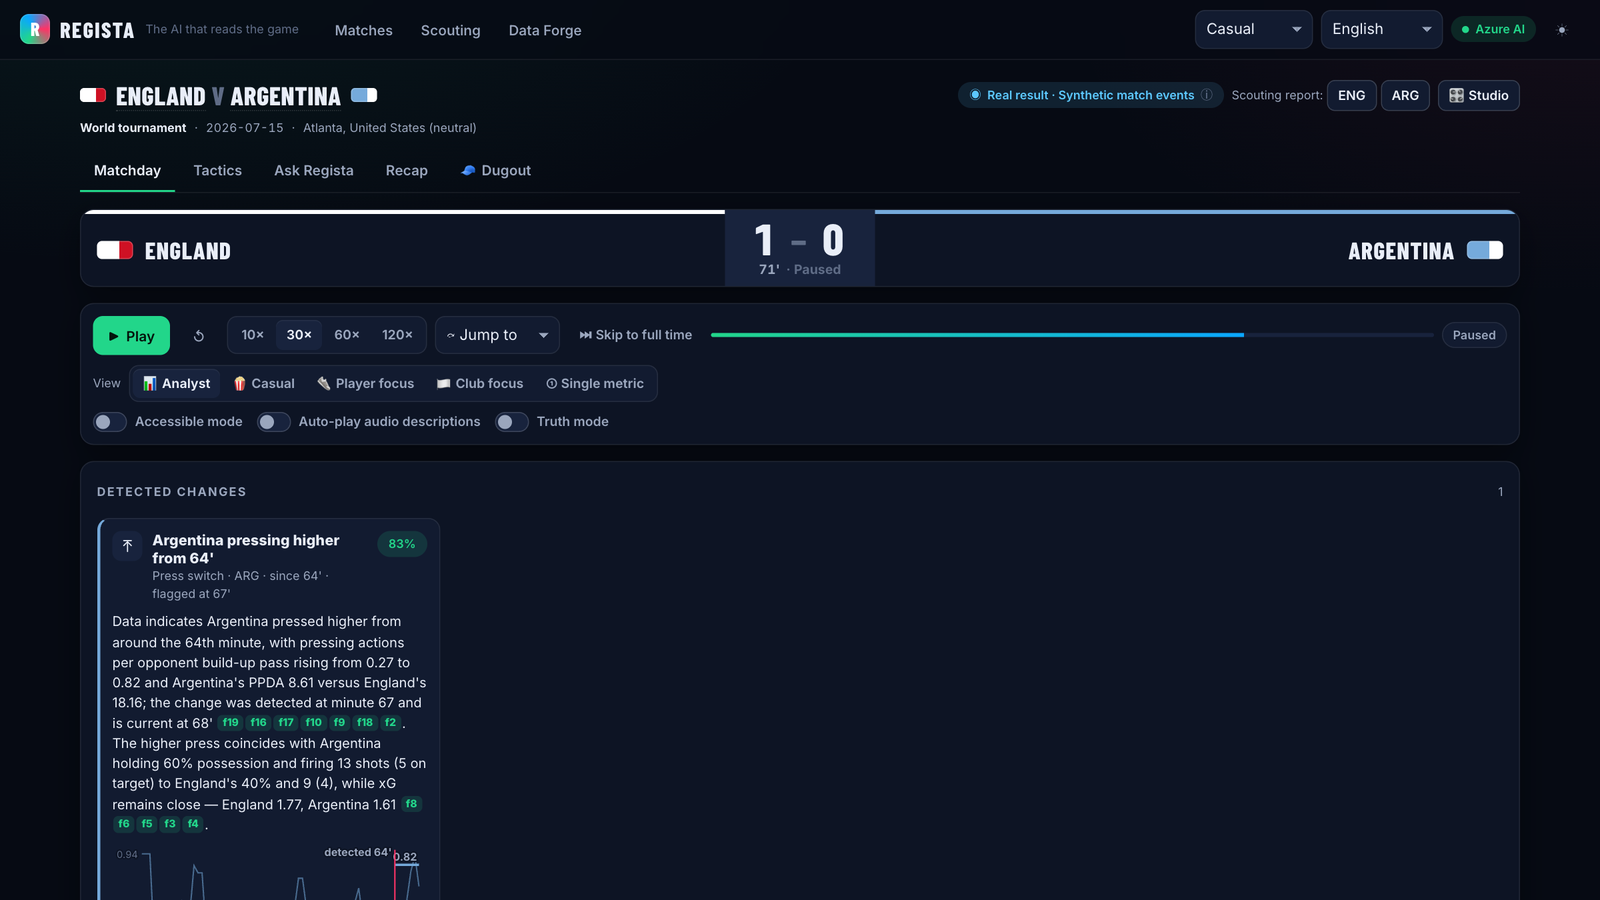
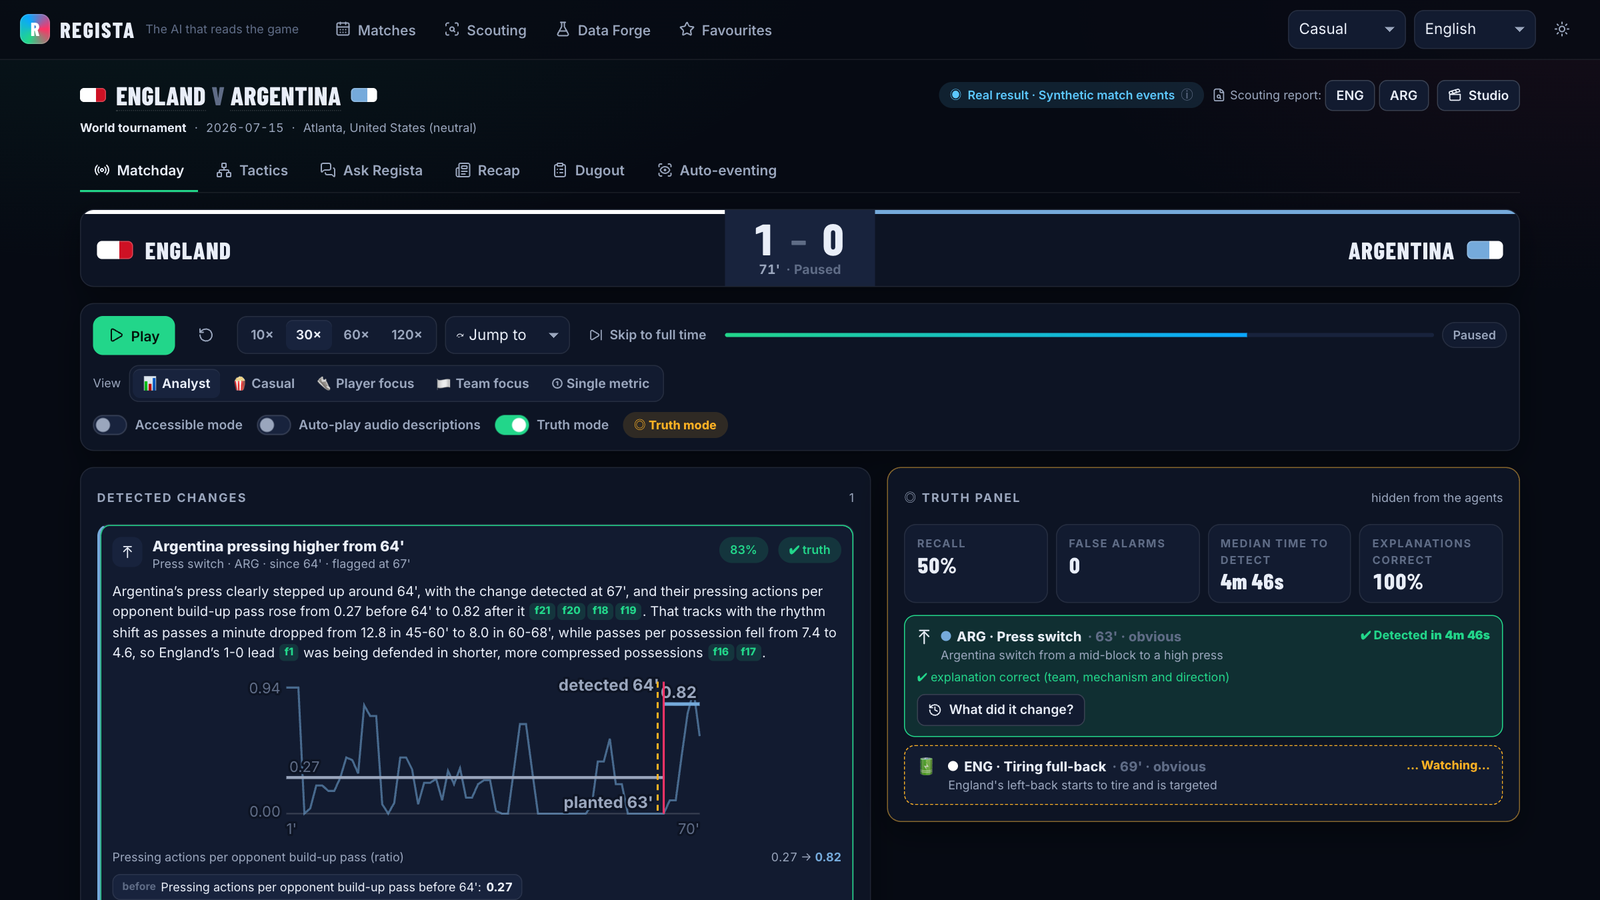
Architecture diagrams show the real flow (browser → API, Web PubSub → viewers); fresh screenshots from the live site

diff --git a/README.md b/README.md
@@ -6,7 +6,7 @@ Built for the Microsoft + Premier League *Inside the Game* Developer Hackathon w
 
 **Try it live:** https://lively-mushroom-048c7b70f.2.azurestaticapps.net (no login; [judge mode](#judge-mode) below). One API instance stays warm, so there's no cold start.
 
-![Control room at 68': Argentina's planted press switch detected, the Verifier drill catching an overstated number (1.76 struck through, evidence says 0.82), and the truth panel scoring the detection in 286 seconds](docs/screenshots/studio-hero.png)
+![Control room at 77': a tiring full-back explained with cited evidence, the Verifier drill catching a planted wrong number before air, and the truth panel scoring both planted changes (recall 100%, 0 false alarms, the press switch detected in 4 min 46 s)](docs/screenshots/studio-hero.png)
 
 > A *regista* is the deep-lying playmaker who sees the whole pitch and dictates the tempo. Regista does that for every viewer, producer and manager: what happened, **why it mattered**, with the evidence.
 
@@ -53,8 +53,8 @@ Built for the Microsoft + Premier League *Inside the Game* Developer Hackathon w
 <tr><td><img src="docs/screenshots/studio-azure.png" alt="Studio on Azure AI: detected changes with evidence charts beside the truth panel (recall 100%, 0 false alarms, median 248 s)"></td>
 <td><img src="docs/screenshots/overlay.png" alt="Broadcast overlay: an approved lower third, Argentina pressing higher from 64', on the transparent page"></td></tr>
 <tr><td align="center">Studio on Azure AI: detections graded by the truth panel</td><td align="center">Overlay: the approved lower third on air</td></tr>
-<tr><td><img src="docs/screenshots/ask.png" alt="Ask Regista: an answer to why England lost, every number tagged with a fact ID, fact-checked against 50 facts"></td>
-<td><img src="docs/screenshots/recap.png" alt="Automated recap: headline, report, player of the match and a 60-second audio script, fact-checked against 139 facts"></td></tr>
+<tr><td><img src="docs/screenshots/ask.png" alt="Ask Regista: an answer to why England lost, every number tagged with a fact ID and fact-checked, with the agent trace"></td>
+<td><img src="docs/screenshots/recap.png" alt="Automated recap: headline, report, player of the match and a 60-second audio script, fact-checked"></td></tr>
 <tr><td align="center">Ask Regista: MCP tools, every number cited</td><td align="center">Multi-agent recap, fact-checked</td></tr>
 <tr><td><img src="docs/screenshots/matchday-player.png" alt="Matchday, Player focus: one player's touches, passes, distance, sprints and top speed"></td>
 <td><img src="docs/screenshots/tactics.png" alt="Tactics: shape, xG, PPDA, field tilt and the pass network"></td></tr>
